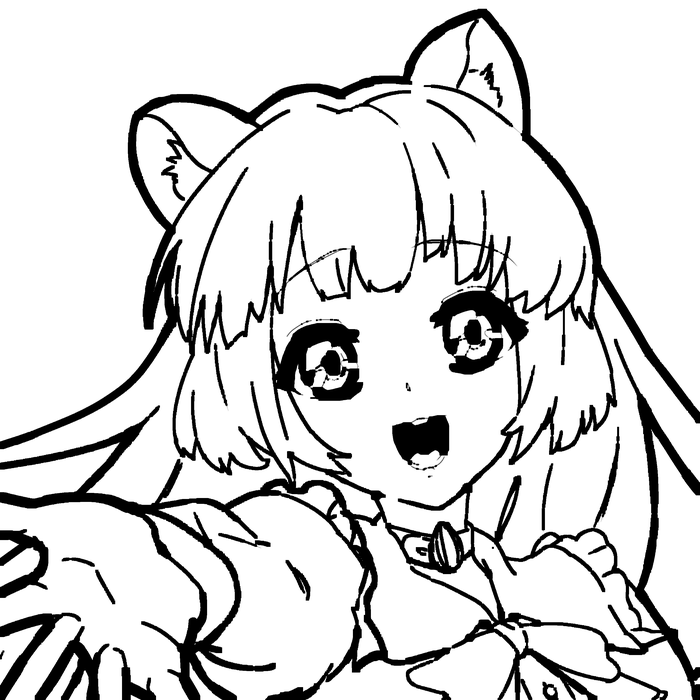
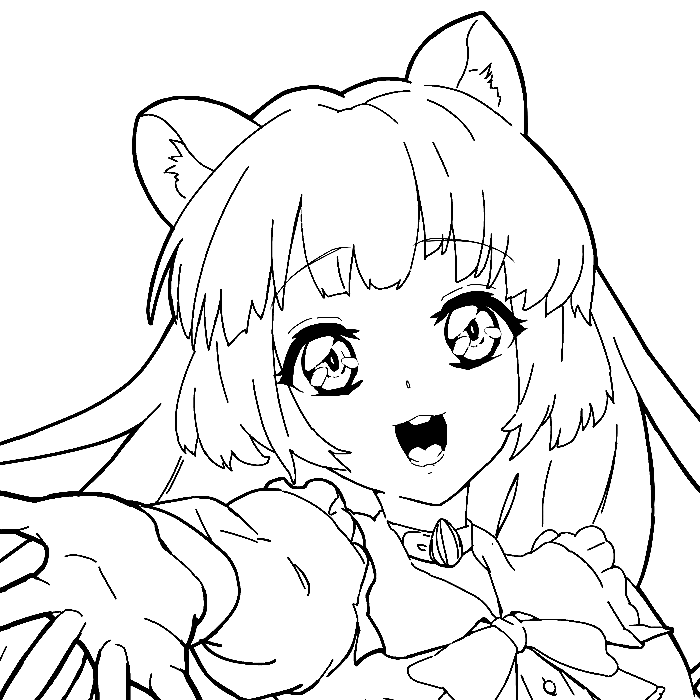
Price tags: the mascot drawing as it was, lines not widened
Back to the original line-head.png (before 031f4aa); the widened versions clogged the eyes on the printed tag.

diff --git a/public/assets/mascot/README.md b/public/assets/mascot/README.md
@@ -11,7 +11,6 @@ these copies; never edit them by hand.
 | clover.png | mascot/AidiChibi/IMG_0211.png, trimmed, 480 wide | empty search, empty cart, shipped email |
 | clover-good-luck.png | mascot/AidiChibi/IMG_0212.png, trimmed, 480 wide | welcome email sign-off |
 | clover-thank-you.png | mascot/AidiChibi/IMG_0213.png, trimmed, 480 wide | order confirmed page and email |
-| line-head.png | mascot/frui2par10r/448849c4-0b95-4649-ba6f-9e5c99d54d1b.jpg (2048×2042), the square 336,0 to 1776,1440, 700×700 | price tags (label printer) |
 
 mascot-wave.png: the white background was removed by filling in from the edges (the drawing's outlines stop it), so a few
 tiny white slivers between hair strands on the right remain. sparkle.png, sparkle-small.png, heart-pink.png, heart-red.png: the little doodles cut out of mascot/AidiChibi/IMG_0211.png
@@ -21,9 +20,3 @@ The clover copies have near-invisible stray pixels (alpha under 40) cleared befo
 `src/v3/mascots.ts`.
 
 Only official, artist-drawn art goes here. No AI-generated pictures: anime fans and artists dislike them.
-
-line-head.png: black lines on transparent (alpha = 255 minus the drawing's grey, greys under 24 cleared as JPEG noise). The
-label printer prints black or white only, so the thin lines would break: every line was made 2.5 times as wide, keeping the
-drawing's own thick and thin lines, and nothing was redrawn. How: at twice the crop's size, for each half-width r from 1 to 6 px
-the parts where a (2r+1) square fits (an opening) were widened by round(1.5 × (r + 0.5)) px, and the largest result kept; strokes
-wider than that (the black of the eyes and mouth) only grow by the r = 6 amount. Then scaled down to 700 px.
